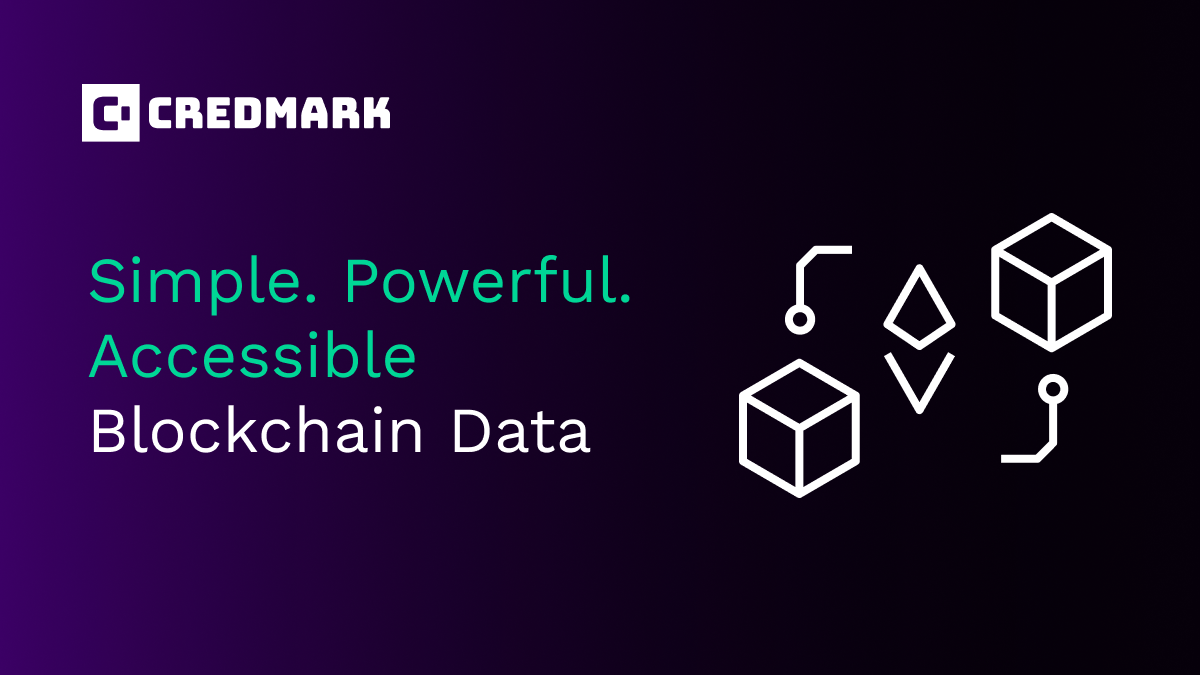
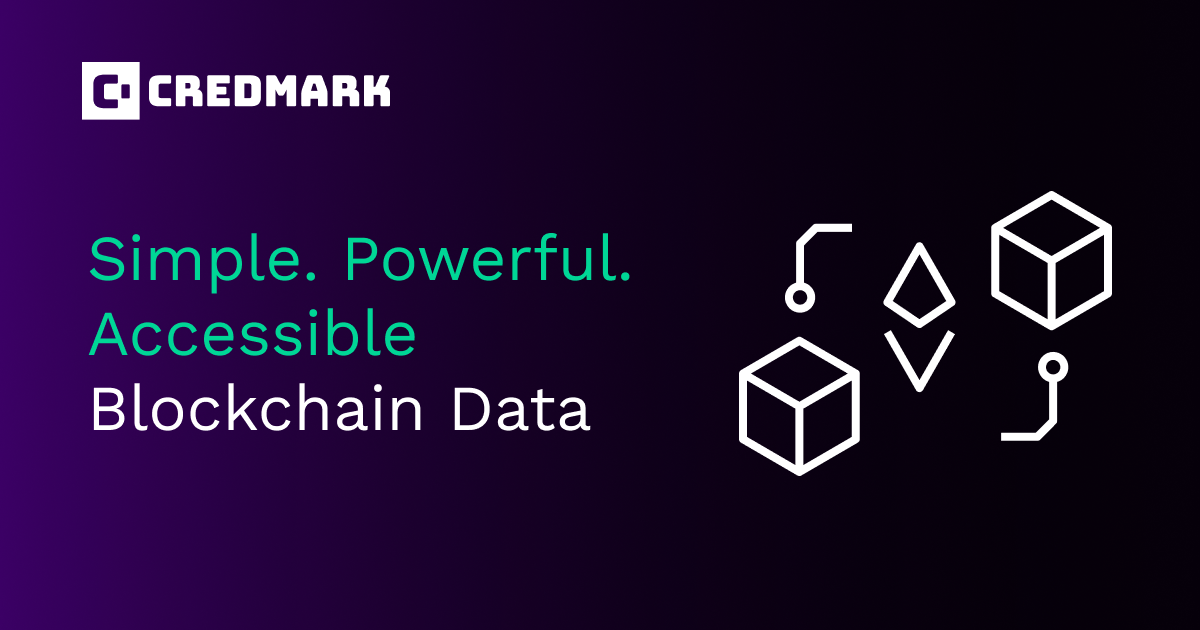
fix: open graph

diff --git a/pages/index.js b/pages/index.js
@@ -1,47 +1,107 @@
-import Head from 'next/head'
-import Link from 'next/link'
-import Subscribe from '../components/subscribe/subscribe'
-import Footer from '../components/layout/footer'
+import Head from "next/head";
+import Link from "next/link";
+import Subscribe from "../components/subscribe/subscribe";
+import Footer from "../components/layout/footer";
 import React from "react";
-import Nav from '../components/layout/nav'
-import TryApi from '../components/homepage/tryApi'
-import BuildModels from '../components/homepage/buildModels'
-import TrustedBy from '../components/global/trusted-by';
-import AvailableOn from '../components/layout/availableOn';
-import Testimonials from '../components/product/testimonials';
-
+import Nav from "../components/layout/nav";
+import TryApi from "../components/homepage/tryApi";
+import BuildModels from "../components/homepage/buildModels";
+import TrustedBy from "../components/global/trusted-by";
+import AvailableOn from "../components/layout/availableOn";
+import Testimonials from "../components/product/testimonials";
 
 export default function Home({ data }) {
   return (
     <>
       <Head>
+        {/* HTML Meta Tags */}
         <title>Credmark - DeFi Transformations</title>
-        <meta content="Credmark - DeFi Transformations" property="og:title" key="og:title" />
-        <meta property="og:image" content="https://credmark.com/assets/credmark-og-image.png" />
-        <link rel="icon" href="/favicon.ico" />
+        <meta
+          name="description"
+          content="Credmark is a world-class crypto modelling platform. It provides access to on-chain and off-chain data via an intuitive development framework in Python."
+        />
+
+        {/* Open Graph Meta Tags */}
+        <meta property="og:url" content="https://credmark.com" />
+        <meta property="og:type" content="website" />
+        <meta property="og:title" content="Credmark - DeFi Transformations" />
+        <meta
+          property="og:description"
+          content="Credmark is a world-class crypto modelling platform. It provides access to on-chain and off-chain data via an intuitive development framework in Python."
+        />
+        <meta
+          property="og:image"
+          content="https://credmark.com/assets/credmark-og-image.png"
+        />
+        <meta property="og:image:width" content="1200" />
+        <meta property="og:image:height" content="630" />
+
+        {/* Twitter Meta Tags */}
+        <meta name="twitter:card" content="summary_large_image" />
+        <meta property="twitter:domain" content="credmark.com" />
+        <meta property="twitter:url" content="https://credmark.com" />
+        <meta name="twitter:title" content="Credmark - DeFi Transformations" />
+        <meta
+          name="twitter:description"
+          content="Credmark is a world-class crypto modelling platform. It provides access to on-chain and off-chain data via an intuitive development framework in Python."
+        />
+        <meta
+          name="twitter:image"
+          content="https://credmark.com/assets/credmark-og-image.png"
+        />
+
+        <link
+          rel="icon"
+          type="image/png"
+          href="/favicon-96x96.png"
+          sizes="96x96"
+        />
+        <link rel="icon" type="image/svg+xml" href="/favicon.svg" />
+        <link rel="shortcut icon" href="/favicon.ico" />
+        <link
+          rel="apple-touch-icon"
+          sizes="180x180"
+          href="/apple-touch-icon.png"
+        />
+        <meta name="apple-mobile-web-app-title" content="Credmark" />
+        <link rel="manifest" href="/site.webmanifest" />
       </Head>
 
       <div className="py-2 stickyCta text-center relative">
         <div>
-          <Link href="/product?tokenApi=true#learnMore" rel="noreferrer"><p className="text-white text-base flex justify-center flex-wrap cursor-pointer"><span className="float-left pr-3">
-            The only source of DeFi prices: our Token API. Simple. Powerful. Try it.</span><img className="hover:animate-pulse" src="../assets/arrow-white.svg" alt="Right arrow" /></p></Link>
+          <Link href="/product?tokenApi=true#learnMore" rel="noreferrer">
+            <p className="text-white text-base flex justify-center flex-wrap cursor-pointer">
+              <span className="float-left pr-3">
+                The only source of DeFi prices: our Token API. Simple. Powerful.
+                Try it.
+              </span>
+              <img
+                className="hover:animate-pulse"
+                src="../assets/arrow-white.svg"
+                alt="Right arrow"
+              />
+            </p>
+          </Link>
         </div>
       </div>
-      <div className="bg-credmarkpurple heroBg w-screen" >
+      <div className="bg-credmarkpurple heroBg w-screen">
         <Nav />
         <div className="max-w-7xl block mx-auto">
           <h1 className="px-4 md:px-0 text-green pt-10 md:pt-24 leading-snug pb-3">
             DeFi Transformations
             <br />
-	    Build. Access.
+            Build. Access.
           </h1>
           <p className="px-4 md:px-0 text-white block mx-auto leading-snug">
-            We curate blockchain data for developers. We keep it simple. We give you power.
+            We curate blockchain data for developers. We keep it simple. We give
+            you power.
           </p>
           <ul>
             <li className="text-white">Raw data for explorers.</li>
             <li className="text-white">Simple APIs for developers.</li>
-            <li className="text-white">A transformation platform for quants.</li>
+            <li className="text-white">
+              A transformation platform for quants.
+            </li>
           </ul>
           <div className="flex flex-wrap pb-52 pt-6">
             <button
@@ -59,22 +119,32 @@ export default function Home({ data }) {
         <div className="bg-black">
           <dl className="rounded-lg bg-black shadow-lg sm:grid sm:grid-cols-3">
             <div className="flex flex-col text-center statBorder">
-              <dt className="mt-2 text-xs leading-6 text-white courier">Raw data</dt>
-              <dd className="text-4xl text-green py-2 bungee">40<span className="text-3xl"> TB</span></dd>
+              <dt className="mt-2 text-xs leading-6 text-white courier">
+                Raw data
+              </dt>
+              <dd className="text-4xl text-green py-2 bungee">
+                40<span className="text-3xl"> TB</span>
+              </dd>
             </div>
             <div className="flex flex-col text-center statBorder">
-              <dt className="mt-2 text-xs leading-6 text-white courier">Number of models</dt>
+              <dt className="mt-2 text-xs leading-6 text-white courier">
+                Number of models
+              </dt>
               <dd className="text-4xl text-green py-2 bungee">400</dd>
             </div>
             <div className="flex flex-col text-center">
-              <dt className="mt-2 text-xs leading-6 text-white courier">API calls</dt>
-              <dd className="text-4xl text-green py-2 bungee">4<span className="text-3xl"> billion</span></dd>
+              <dt className="mt-2 text-xs leading-6 text-white courier">
+                API calls
+              </dt>
+              <dd className="text-4xl text-green py-2 bungee">
+                4<span className="text-3xl"> billion</span>
+              </dd>
             </div>
           </dl>
         </div>
         <AvailableOn />
       </div>
-     
+
       <TryApi />
       <BuildModels />
       <TrustedBy />
@@ -82,15 +152,17 @@ export default function Home({ data }) {
       <Subscribe />
       <Footer />
     </>
-  )
+  );
 }
 
 export async function getStaticProps() {
-  const res = await fetch("https://gateway.credmark.com/v0/models/cmk/data?token=CMK&limit=1")
-  const data = await res.json()
+  const res = await fetch(
+    "https://gateway.credmark.com/v0/models/cmk/data?token=CMK&limit=1"
+  );
+  const data = await res.json();
   return {
     props: {
-      data
-    }
-  }
+      data,
+    },
+  };
 }
